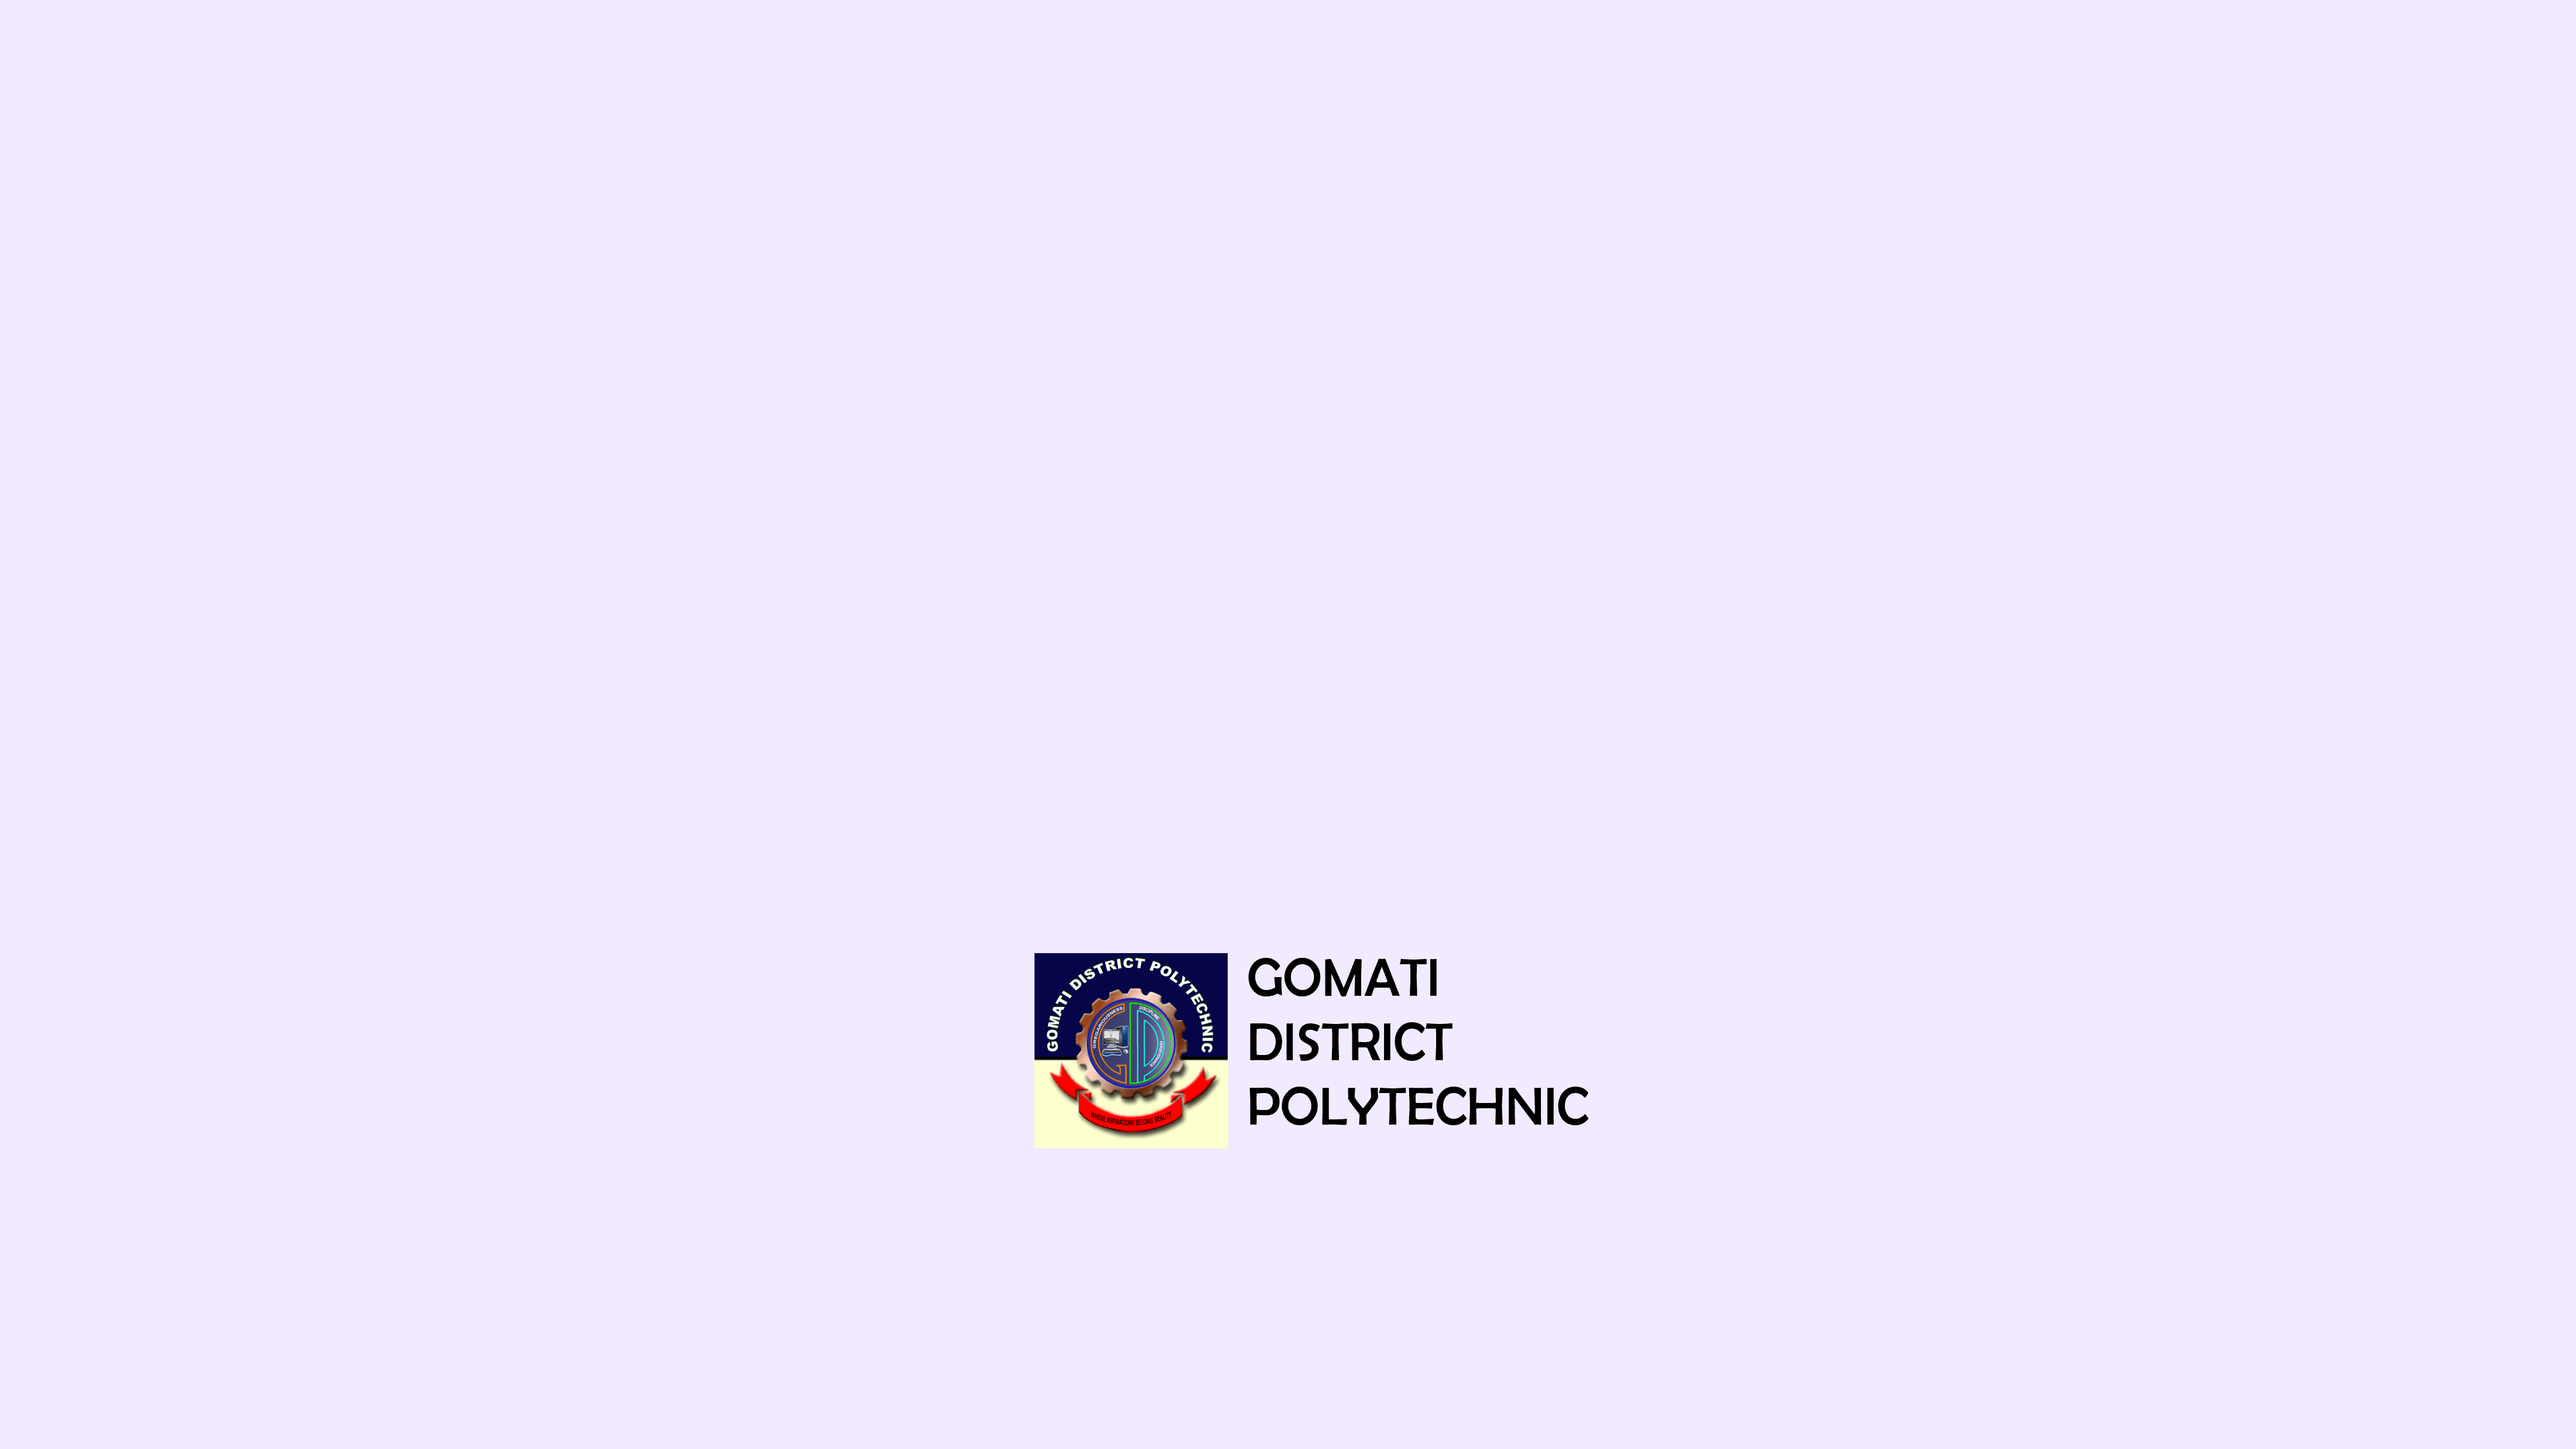
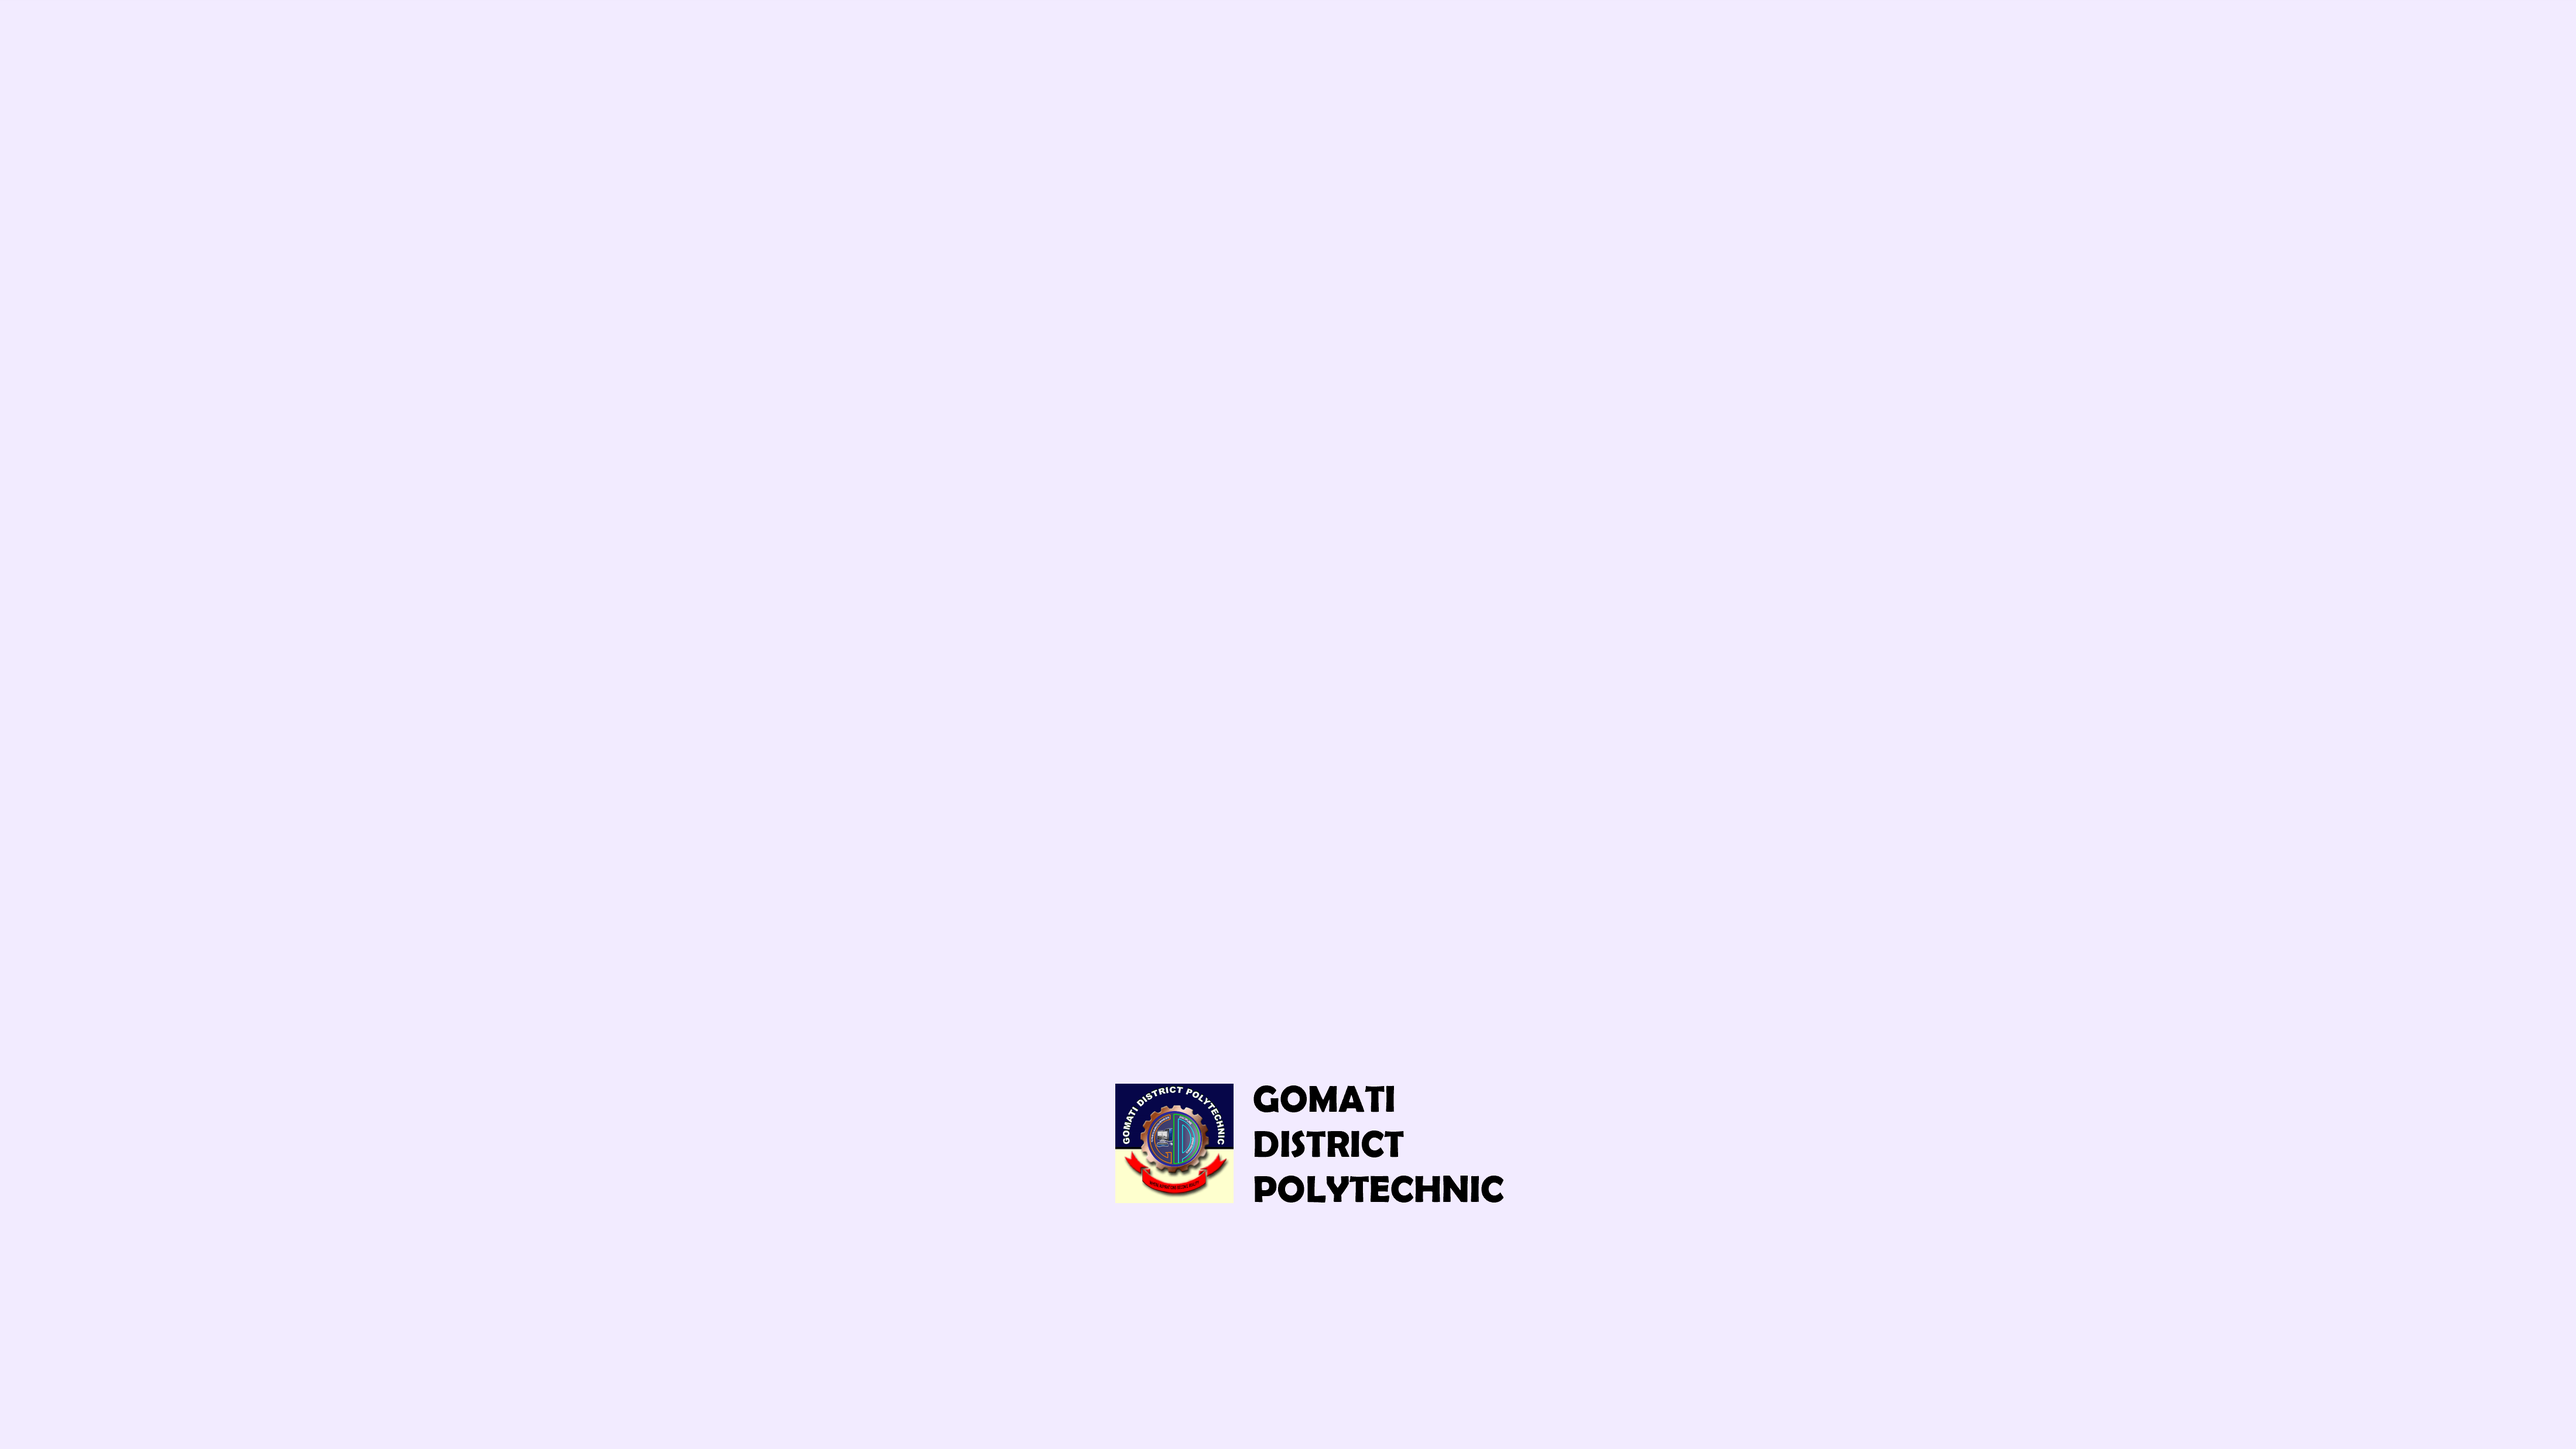
Updated Preloader
Added GDP Logo to Preloader

Changed region(s): [[0.3736, 0.6533, 0.6227, 0.84]]

diff --git a/css/preloader.css b/css/preloader.css
@@ -13,10 +13,10 @@
     display: flex;
     align-items: center;
     justify-content: center;
-    /* background: #f7efff; */
     background-image: url("../img/preloader-light.png");
     background-size:cover;
     background-position: center;
+    /* background: #f7efff; */
   }
   .spinner{
     width: 100px;
@@ -41,7 +41,10 @@
   display: flex;
   align-items: center;
   justify-content: center;
-  background: #11101D;
+  background-image: url("../img/preloader-dark.png");
+  background-size:cover;
+  background-position: center;
+  /* background: #11101D; */
 }
 .spinner{
   width: 100px;

diff --git a/js/preloader.js b/js/preloader.js
@@ -12,7 +12,7 @@ $(document).ready(function(){
         document.getElementById("sidebar").style.display = "block";
         document.getElementById("home-section").style.display = "block";
         document.getElementById("dash-section").style.display = "block";
-      },400);
+      },1000);
 
     setTimeout(() => {
         firstchart();
@@ -20,4 +20,4 @@ $(document).ready(function(){
         thirdchart();
         fourthchart();
         fifthchart();
-      },600);
+      },1200);
